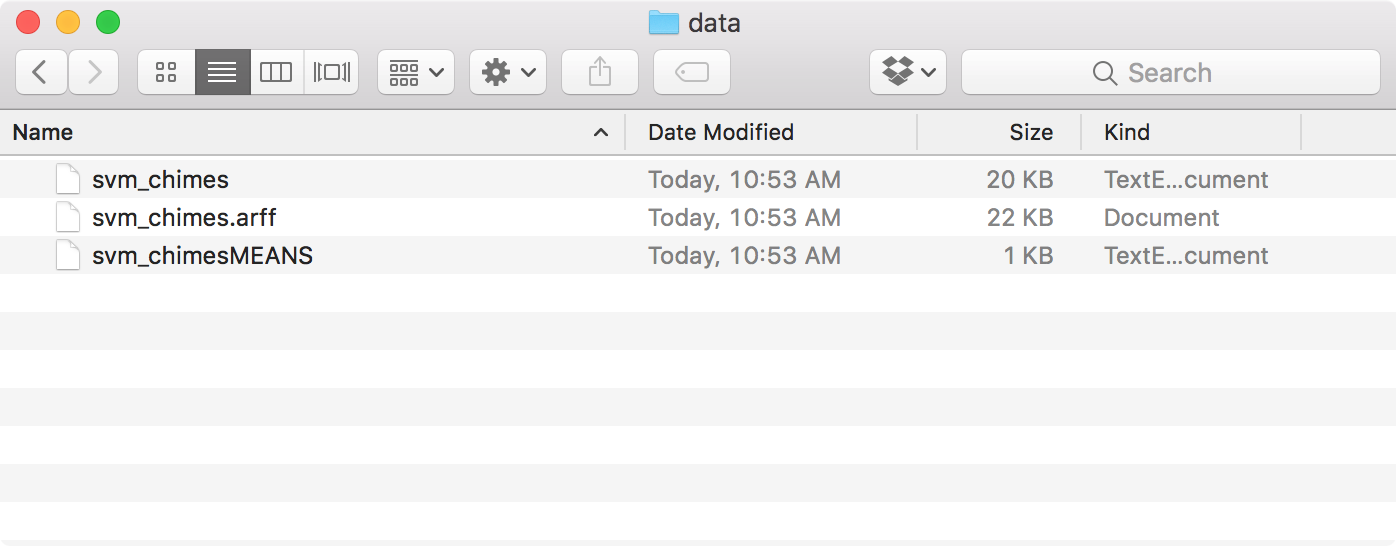
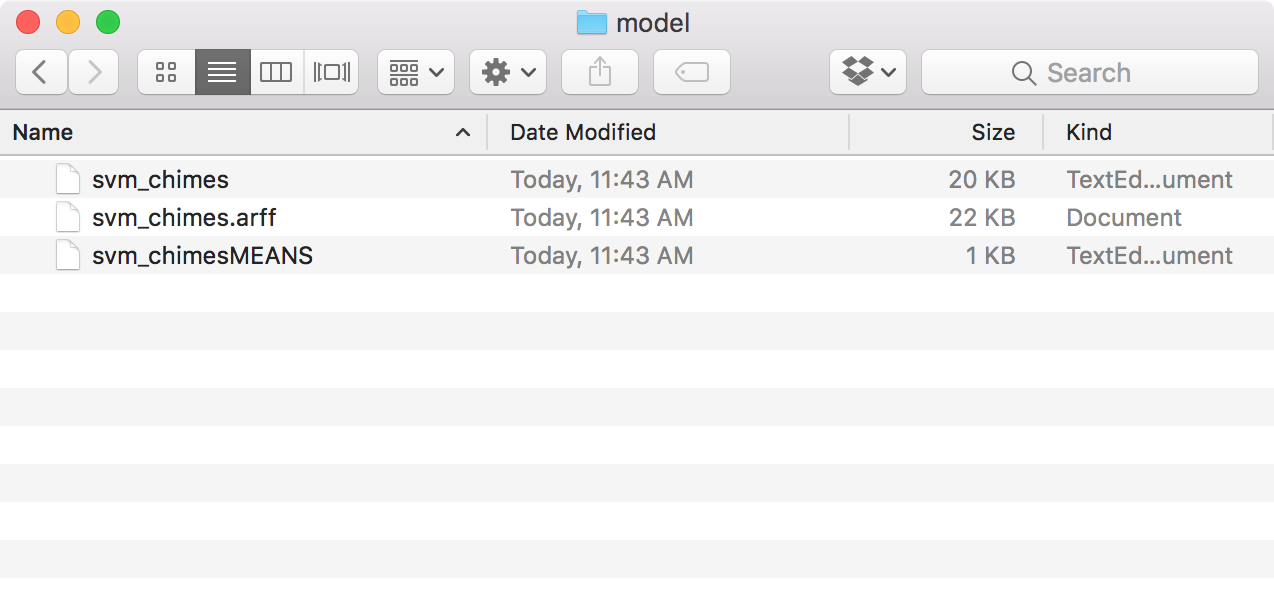
small edits

Changed region(s): [[0.0, 0.0, 1.0, 0.4982]]

diff --git a/01 Tag and Extract Chimes.md b/01 Tag and Extract Chimes.md
@@ -124,16 +124,21 @@ os.chdir(os.path.expanduser('~/Desktop/'))
 aT.featureAndTrain(['NBC_Not_Chimes','NBC_Chimes'], 1.0, 1.0, aT.shortTermWindow, aT.shortTermStep, "svm", "audio-ml-introduction-master/model/svm_chimes", False)
 ```
 
-- This will output a model file called "svm_chimes" in the "data" directory, along with two supporting files.
+- This will output a model file called "svm_chimes" in the "model" directory, along with two supporting files.
 
 
 ![](img/img06.png)
 
 
-
 ### Classifying Audio
 
-Move the 
+- Now that our model is ready to go, enter the following commands to open the included Jupyter notebook.
+
+```
+cd ~/Desktop/audio-ml-introduction-master/
+jupyter notebook "02 Find and Play NBC Chimes.ipynb"
+```
+
 
 
 
